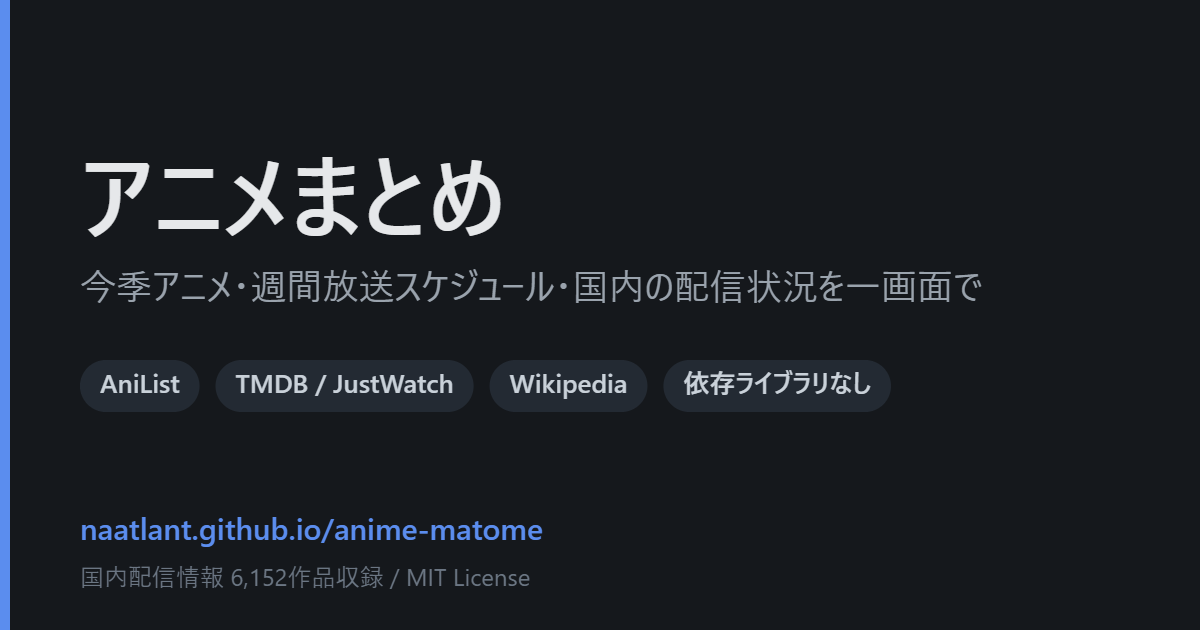
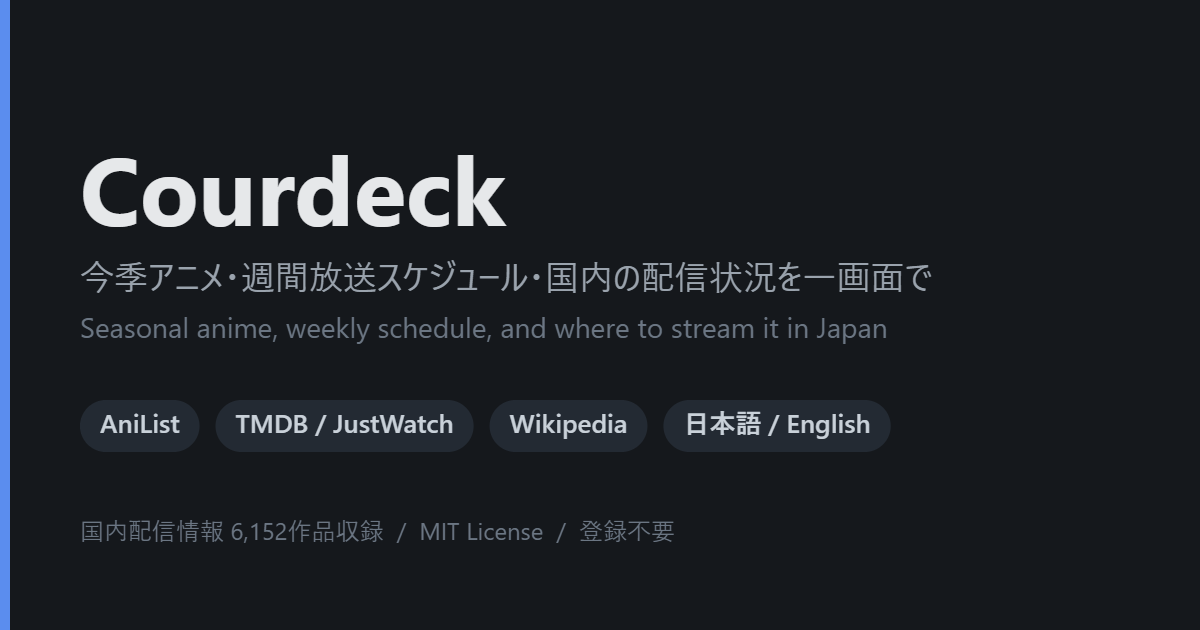
名称を Courdeck に変更
cour（3ヶ月の放送単位、英語圏のアニメファンにも通じる語）と deck（カード表示）
の組み合わせ。GitHub・npm・Web検索・主要ドメインいずれにも同名は存在しない。

- アプリの表示名、ページタイトル、OGPのタイトルとサイト名を変更
- OGP画像を作り直し、リポジトリ名に依存しないようURL表記を削除
- 両READMEの見出しと埋め込み例を更新

diff --git a/index.html b/index.html
@@ -3,12 +3,12 @@
 <head>
 <meta charset="UTF-8">
 <meta name="viewport" content="width=device-width, initial-scale=1">
-<title>アニメまとめ｜今季アニメ・週間放送表・国内の配信状況</title>
+<title>Courdeck｜今季アニメ・週間放送表・国内の配信状況</title>
 <meta name="description" content="今季・過去のアニメを自動で集め、一覧・集計・週間放送スケジュール・国内の配信状況として表示する無料のWebアプリです。登録不要。">
 <link rel="canonical" href="https://naatlant.github.io/anime-matome/">
 <meta property="og:type" content="website">
-<meta property="og:site_name" content="アニメまとめ">
-<meta property="og:title" content="アニメまとめ｜今季アニメ・週間放送表・国内の配信状況">
+<meta property="og:site_name" content="Courdeck">
+<meta property="og:title" content="Courdeck｜今季アニメ・週間放送表・国内の配信状況">
 <meta property="og:description" content="今季・過去のアニメを自動で集め、一覧・集計・週間放送スケジュール・国内の配信状況として表示する無料のWebアプリです。登録不要。">
 <meta property="og:url" content="https://naatlant.github.io/anime-matome/">
 <meta property="og:image" content="https://naatlant.github.io/anime-matome/assets/og.png">
@@ -181,7 +181,7 @@
 </head>
 <body>
 <div class="wrap">
-  <h1 data-i18n="app.title">アニメまとめ</h1>
+  <h1 data-i18n="app.title">Courdeck</h1>
   <p class="lead" id="lead"></p>
 
   <div class="panel" id="searchPanel">
@@ -339,8 +339,8 @@ var LEAD_EN =
 
 var I18N = {
   ja: {
-    "app.title": "アニメまとめ", lead: LEAD_JA, langBtn: "English",
-    docTitle: "アニメまとめ｜今季アニメ・週間放送表・国内の配信状況",
+    "app.title": "Courdeck", lead: LEAD_JA, langBtn: "English",
+    docTitle: "Courdeck｜今季アニメ・週間放送表・国内の配信状況",
     "p.current": "今季", "p.prev": "前季", "p.next": "来季",
     "p.airing": "放送中の話題作", "p.alltime": "歴代トップ", "p.year": "今年のベスト",
     "f.year": "年", "f.season": "季節", "f.sort": "並び順", "f.format": "形式",
@@ -388,8 +388,8 @@ var I18N = {
     dash: "—"
   },
   en: {
-    "app.title": "Anime Matome", lead: LEAD_EN, langBtn: "日本語",
-    docTitle: "Anime Matome | Seasonal anime, weekly schedule, streaming in Japan",
+    "app.title": "Courdeck", lead: LEAD_EN, langBtn: "日本語",
+    docTitle: "Courdeck | Seasonal anime, weekly schedule, streaming in Japan",
     "p.current": "This season", "p.prev": "Previous", "p.next": "Next",
     "p.airing": "Trending now", "p.alltime": "All-time best", "p.year": "Best of the year",
     "f.year": "Year", "f.season": "Season", "f.sort": "Sort by", "f.format": "Format",

diff --git a/anime.html b/anime.html
@@ -2,7 +2,7 @@
 <html lang="ja">
 <head>
 <meta charset="UTF-8">
-<title>アニメまとめ / Anime Matome</title>
+<title>Courdeck</title>
 <meta name="robots" content="noindex">
 <link rel="canonical" href="https://naatlant.github.io/anime-matome/">
 <meta http-equiv="refresh" content="0; url=./">
@@ -12,6 +12,6 @@
 </script>
 </head>
 <body>
-<p>移動しました / Moved: <a href="./">アニメまとめ / Anime Matome</a></p>
+<p>移動しました / Moved: <a href="./">Courdeck</a></p>
 </body>
 </html>

diff --git a/README.ja.md b/README.ja.md
@@ -1,4 +1,4 @@
-# アニメまとめ
+# Courdeck
 
 *English version: [README.md](README.md)*
 
@@ -134,7 +134,7 @@ https://naatlant.github.io/anime-matome/?year=&season=&genre=Sci-Fi&score=80&sor
 ```html
 <iframe src="https://naatlant.github.io/anime-matome/?view=cal&lang=ja"
         width="100%" height="800" style="border:0" loading="lazy"
-        title="アニメまとめ"></iframe>
+        title="Courdeck"></iframe>
 ```
 
 ### 手元に置いて使う

diff --git a/README.md b/README.md
@@ -1,4 +1,4 @@
-# Anime Matome
+# Courdeck
 
 *日本語版は [README.ja.md](README.ja.md) をご覧ください。*
 
@@ -144,7 +144,7 @@ you can post once and never update.**
 ```html
 <iframe src="https://naatlant.github.io/anime-matome/?view=cal&lang=en"
         width="100%" height="800" style="border:0" loading="lazy"
-        title="Anime Matome"></iframe>
+        title="Courdeck"></iframe>
 ```
 
 ### Run it yourself
